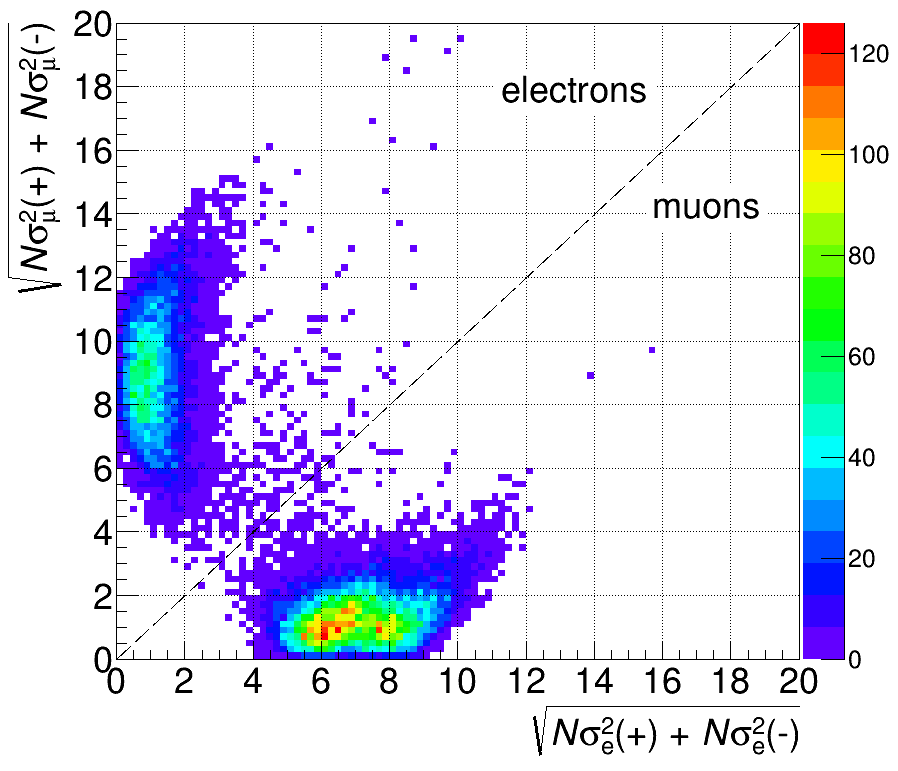
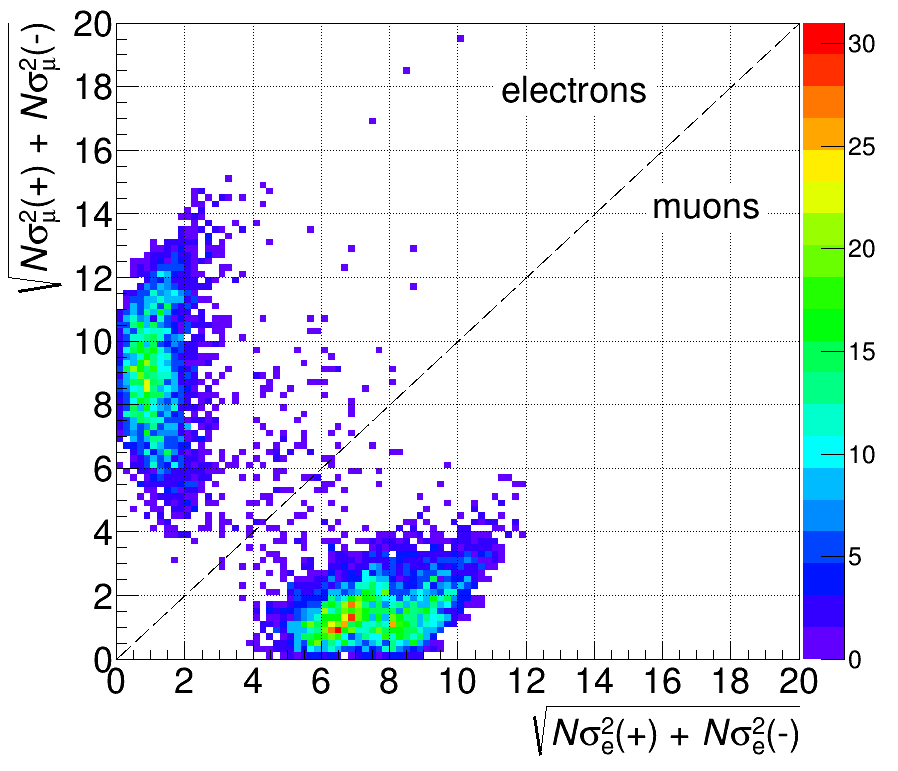
Update no.2 06-12-2021

diff --git a/ElectronsMuonsPID.c b/ElectronsMuonsPID.c
@@ -166,7 +166,7 @@ Bool_t EventPassedLocal(){
     if(!(fM > 2.2 && fM < 4.5)) return kFALSE;
 
     // 13) Transverse momentum cut
-    if(!(fPt > 0.0 && fPt < 2.0)) return kFALSE;
+    if(!(fPt > 0.2 && fPt < 1.0)) return kFALSE;
 
     // Event passed all the selections =>
     return kTRUE;
